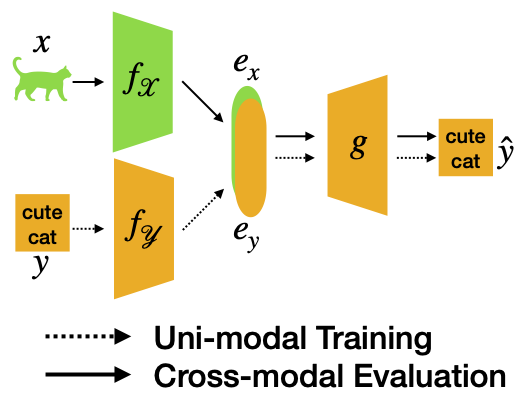
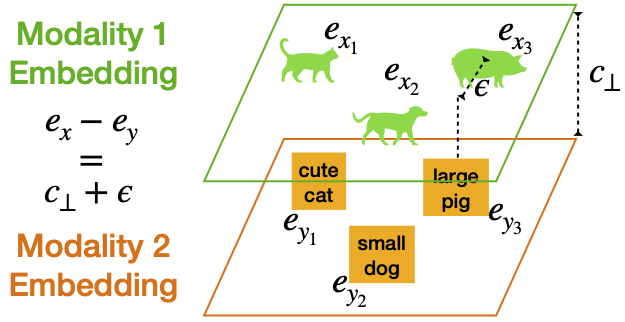
update

diff --git a/README.md b/README.md
@@ -10,8 +10,8 @@ Building cross-modal applications is challenging due to limited paired multi-mod
 ## 💡 Approach
 
 <p float="left">
-  <img src="./figures/figure1.png" width="40%" />
-  <img src="./figures/figure2.png" width="40%" /> 
+  <img src="./figures/figure1.png" width="57%" />
+  <img src="./figures/figure2.png" width="39%" /> 
 </p>
 
 **Figure: Overview of the motivation behind our approach, $C^3$.** Our work provides a theoretical explanation of the unique geometry that arises from multi-modal contrastive learning, where a modality gap and alignment noise exist in the learned representation space. Building upon this observation, we present a straightforward technique, $C^3$, which enhances the interchangeability of embeddings between modalities, enabling the creation of cross-modal applications using only uni-modal data.
